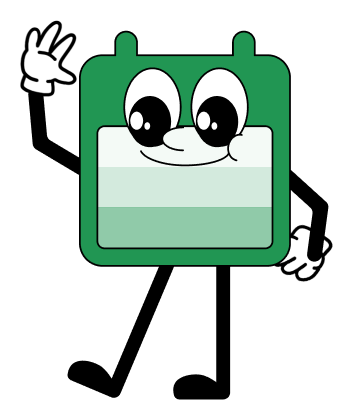
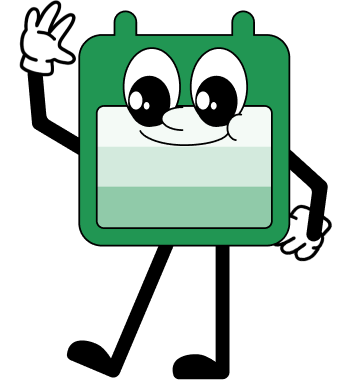
fixed landing page spacing and image

diff --git a/frontend/src/views/Landing.vue b/frontend/src/views/Landing.vue
@@ -73,16 +73,15 @@
           <!-- Calendar -->
           <div>
             <v-img
-            alt="schej character"
-            src="@/assets/schejie_hand.png"
-            :height="150"
-            v-if="isPhone"
-            transition="fade-transition"
-            contain
-            class="-tw-mb-20"
-          />
-          <LandingPageCalendar class="tw-drop-shadow-lg" /></div>
-
+              alt="schej character"
+              src="@/assets/schejie_hand.png"
+              :height="isPhone ? 150 : 190"
+              transition="fade-transition"
+              contain
+              class="mt-2 -tw-mb-20 tw-block sm:-tw-mb-24 sm:tw-mt-6 lg:tw-hidden"
+            />
+            <LandingPageCalendar class="tw-drop-shadow-lg" />
+          </div>
         </div>
 
         <!-- Right side -->
